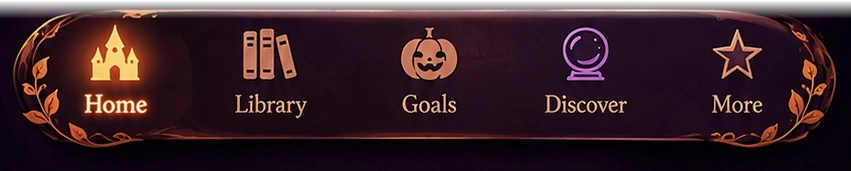
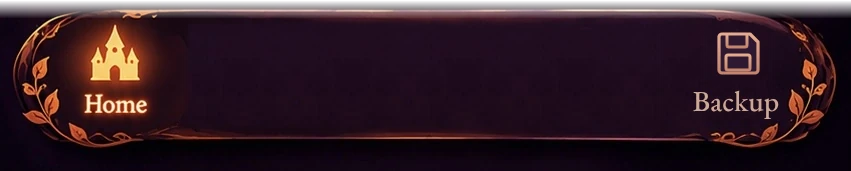
Backup page; bottom bar with only Home + Backup on every page
Claude-Session: https://claude.ai/code/session_01DZ2PcvGyS618JmL5zui3Ep

diff --git a/backup.html b/backup.html
@@ -1,0 +1,89 @@
+<!DOCTYPE html>
+<html lang="en">
+<head>
+<meta charset="utf-8">
+<meta name="app-version" content="backup-1">
+<meta name="viewport" content="width=device-width, initial-scale=1, viewport-fit=cover">
+<meta name="apple-mobile-web-app-capable" content="yes">
+<meta name="apple-mobile-web-app-status-bar-style" content="black-translucent">
+<meta name="theme-color" content="#0e0416">
+<title>Backup</title>
+<link rel="preconnect" href="https://fonts.googleapis.com">
+<link href="https://fonts.googleapis.com/css2?family=EB+Garamond:wght@400;600&display=swap" rel="stylesheet">
+<style>
+@font-face{font-family:"IM Fell English";src:url(fonts/IMFellEnglishItalic.woff2) format("woff2");font-style:italic}
+html,body{margin:0;min-height:100%;background:#0e0416;color:#f1dcc0;font-family:"EB Garamond",Georgia,serif}
+body{min-height:100vh;box-sizing:border-box;background:radial-gradient(ellipse at 50% 0%,#3a1838 0%,#1a0a1e 55%,#0e0416 100%) fixed;
+ padding:calc(env(safe-area-inset-top,0px) + 14px) 22px calc(env(safe-area-inset-bottom,0px) + 140px)}
+.back{color:#e8c890;text-decoration:none;font-size:17px;opacity:.85}
+h1{font:italic 40px/1.1 "IM Fell English",Georgia,serif;color:#f1cf7c;text-shadow:0 0 14px rgba(255,180,80,.3),0 2px 2px #000;margin:22px 0 6px;text-align:center}
+.sub{text-align:center;opacity:.75;font-size:17px;margin:0 0 26px}
+.card{background:linear-gradient(180deg,rgba(90,40,88,.55),rgba(46,18,48,.7));border:1.5px solid rgba(232,190,140,.45);border-radius:18px;padding:18px;margin-bottom:16px;box-shadow:0 6px 16px rgba(0,0,0,.5)}
+.card h2{margin:0 0 4px;font-size:22px;color:#f6dcb4}
+.card p{margin:0 0 14px;font-size:16px;opacity:.8}
+.btn{display:block;width:100%;box-sizing:border-box;text-align:center;padding:13px;border-radius:999px;font:600 18px "EB Garamond",Georgia,serif;cursor:pointer;
+ color:#2a1410;background:linear-gradient(180deg,#f3d29a,#d9a066);border:0;box-shadow:0 3px 8px rgba(0,0,0,.5)}
+.btn:active{filter:brightness(1.1);transform:scale(.98)}
+.status{min-height:24px;text-align:center;font-size:16px;color:#f1cf7c;margin-top:8px}
+.status.err{color:#ff9a8a}
+.hidden{display:none}
+#tabbar{position:fixed;left:0;right:0;bottom:0;z-index:5;padding-bottom:env(safe-area-inset-bottom,0px);
+ background:linear-gradient(transparent,#0d0310 calc(100% - env(safe-area-inset-bottom,0px)))}
+#tabbar .in{position:relative;width:min(100vw,640px);margin:0 auto}
+#tabbar img{display:block;width:100%;height:auto;pointer-events:none}
+#tabbar .tb{position:absolute;top:12%;width:18%;height:76%;border-radius:22px;-webkit-tap-highlight-color:transparent}
+#tabbar .tb:active{background:radial-gradient(closest-side,rgba(255,170,90,.25),transparent)}
+</style>
+</head>
+<body>
+<h1>Backup</h1>
+<p class="sub" id="count">Keep your collection safe</p>
+<div class="card">
+  <h2>Save a backup</h2>
+  <p>Saves all your books to a file you can keep in Files or send to yourself.</p>
+  <button class="btn" id="exportBtn">Save backup</button>
+</div>
+<div class="card">
+  <h2>Restore from a backup</h2>
+  <p>Adds the books from a backup file. Books you already have stay as they are.</p>
+  <label class="btn" for="importFile">Choose backup file</label>
+  <input type="file" id="importFile" accept="application/json,.json" class="hidden">
+</div>
+<div class="status" id="status"></div>
+<nav id="tabbar" aria-label="Sections">
+  <div class="in">
+    <img src="img/tabbar.webp" alt="">
+    <a class="tb" style="left:4%" href="./" aria-label="Home"></a>
+    <a class="tb" style="left:78%" href="backup.html" aria-label="Backup"></a>
+  </div>
+</nav>
+<script src="store.js"></script>
+<script>
+{
+const $ = id => document.getElementById(id);
+const status = (m, err) => { const s = $('status'); s.textContent = m || ''; s.className = 'status' + (err ? ' err' : ''); };
+let books = [];
+const load = () => Store.all().then(a => { books = a; $('count').textContent = a.length ? `${a.length} book${a.length > 1 ? 's' : ''} in your collection` : 'Keep your collection safe'; });
+load(); Store.onChange(load);
+$('exportBtn').onclick = () => {
+  const blob = new Blob([JSON.stringify(books, null, 2)], { type: 'application/json' });
+  const file = new File([blob], `shelf-backup-${new Date().toISOString().slice(0, 10)}.json`, { type: 'application/json' });
+  if (navigator.canShare && navigator.canShare({ files: [file] })) { navigator.share({ files: [file] }).catch(() => {}); return; }
+  const a = document.createElement('a'); a.href = URL.createObjectURL(blob); a.download = file.name; a.click();
+};
+$('importFile').onchange = async e => {
+  const f = e.target.files[0]; e.target.value = ''; if (!f) return;
+  try {
+    const data = JSON.parse(await f.text()); if (!Array.isArray(data)) throw 0;
+    const have = new Set(books.map(b => b.id)); const fresh = data.filter(b => b && b.id && !have.has(b.id));
+    fresh.forEach(b => { if (b.status !== 'wishlist') b.status = 'owned'; if (!GENRES.includes(b.genre)) b.genre = guessGenre(b); });
+    await Store.replaceAll([...fresh, ...books]); await load();
+    status(`Restored ${fresh.length} book${fresh.length === 1 ? '' : 's'}.`);
+    fresh.forEach(b => Store.saveCover(b));
+  } catch (err) { status('That file isn’t a Shelf backup.', true); }
+};
+if ('serviceWorker' in navigator) navigator.serviceWorker.register('./sw.js').catch(() => {});
+}
+</script>
+</body>
+</html>

diff --git a/add.html b/add.html
@@ -3,7 +3,7 @@
 <head>
 <meta charset="utf-8">
 <meta http-equiv="Cache-Control" content="no-cache">
-<meta name="app-version" content="a1">
+<meta name="app-version" content="a2">
 <meta name="viewport" content="width=device-width, initial-scale=1, viewport-fit=cover">
 <title>Add Book</title>
 <meta name="apple-mobile-web-app-capable" content="yes">
@@ -61,14 +61,20 @@ dt{color:var(--mute)}dd{margin:0;overflow-wrap:anywhere}
 .form{display:grid;gap:8px;margin-top:12px}
 .hidden{display:none!important}
 a{color:inherit;text-decoration-color:var(--accent);text-underline-offset:3px}
+#tabbar{position:fixed;left:0;right:0;bottom:0;z-index:5;padding-bottom:env(safe-area-inset-bottom,0px);
+ background:linear-gradient(transparent,#0d0310 calc(100% - env(safe-area-inset-bottom,0px)))}
+#tabbar .in{position:relative;width:min(100vw,640px);margin:0 auto}
+#tabbar img{display:block;width:100%;height:auto;pointer-events:none}
+#tabbar .tb{position:absolute;top:12%;width:18%;height:76%;border-radius:22px;-webkit-tap-highlight-color:transparent}
+#tabbar .tb:active{background:radial-gradient(closest-side,rgba(255,170,90,.25),transparent)}
+main{padding-bottom:140px}
 </style>
 </head>
 <body>
 <header>
-  <a href="./" style="display:inline-block;margin-bottom:6px;color:inherit;opacity:.8;text-decoration:none;font-size:15px">&larr; Home</a>
   <h1>Add Book</h1>
   <p id="count">Your book catalog</p>
-  <p style="font-size:12px;opacity:.5">a1</p>
+  <p style="font-size:12px;opacity:.5">a2</p>
 </header>
 <main>
   <section class="panel">
@@ -94,6 +100,13 @@ a{color:inherit;text-decoration-color:var(--accent);text-underline-offset:3px}
 
 </main>
 
+<nav id="tabbar" aria-label="Sections">
+  <div class="in">
+    <img src="img/tabbar.webp" alt="">
+    <a class="tb" style="left:4%" href="./" aria-label="Home"></a>
+    <a class="tb" style="left:78%" href="backup.html" aria-label="Backup"></a>
+  </div>
+</nav>
 <script src="store.js"></script>
 <script src="https://unpkg.com/@zxing/library@0.21.3/umd/index.min.js"></script>
 <script>
@@ -375,7 +388,7 @@ const loadBooks = () => Store.all().then(a => { books = a.sort((x, y) => (y.adde
 loadBooks(); Store.onChange(loadBooks);
 
 /* ---------- Auto-update ---------- */
-const VERSION = 'a1';
+const VERSION = 'a2';
 if ('serviceWorker' in navigator) navigator.serviceWorker.register('./sw.js').catch(() => {});
 // When the app comes back to the front, check for a newer version and reload into it
 async function checkUpdate() {

diff --git a/book.html b/book.html
@@ -3,7 +3,7 @@
 <head>
 <meta charset="utf-8">
 <meta http-equiv="Cache-Control" content="no-cache">
-<meta name="app-version" content="book-14">
+<meta name="app-version" content="book-16">
 <meta name="viewport" content="width=device-width, initial-scale=1, viewport-fit=cover">
 <meta name="apple-mobile-web-app-capable" content="yes">
 <meta name="apple-mobile-web-app-status-bar-style" content="black-translucent">
@@ -96,10 +96,7 @@ dd input::placeholder{color:rgba(243,227,195,.4);font-style:italic}
   <div class="in">
     <img src="img/tabbar.webp" alt="">
     <a class="tb" style="left:4%" href="./" aria-label="Home"></a>
-    <a class="tb" style="left:22.5%" aria-label="Library"></a>
-    <a class="tb" style="left:41%" aria-label="Goals"></a>
-    <a class="tb" style="left:59.5%" aria-label="Discover"></a>
-    <a class="tb" style="left:78%" aria-label="More"></a>
+    <a class="tb" style="left:78%" href="backup.html" aria-label="Backup"></a>
   </div>
 </nav>
 <script src="store.js"></script>

diff --git a/index.html b/index.html
@@ -3,7 +3,7 @@
 <head>
 <meta charset="utf-8">
 <meta http-equiv="Cache-Control" content="no-cache">
-<meta name="app-version" content="home-54">
+<meta name="app-version" content="home-56">
 <meta name="viewport" content="width=device-width, initial-scale=1, viewport-fit=cover, user-scalable=no">
 <link rel="preload" as="image" href="img/frame.webp" fetchpriority="high">
 <link rel="preload" as="image" href="img/canopy.webp">
@@ -112,10 +112,7 @@
   <div class="in">
     <img src="img/tabbar.webp" alt="">
     <a class="tb" style="left:4%" aria-label="Home" aria-current="page"></a>
-    <a class="tb" style="left:22.5%" aria-label="Library"></a>
-    <a class="tb" style="left:41%" aria-label="Goals"></a>
-    <a class="tb" style="left:59.5%" aria-label="Discover"></a>
-    <a class="tb" style="left:78%" aria-label="More"></a>
+    <a class="tb" style="left:78%" href="backup.html" aria-label="Backup"></a>
   </div>
 </nav>
 <script src="store.js"></script>

diff --git a/home.js b/home.js
@@ -95,7 +95,7 @@ if(document.fonts)document.fonts.ready.then(()=>{const q=document.getElementById
 document.addEventListener('visibilitychange',()=>{if(!document.hidden)showQuote()});
 
 /* ---------- offline + auto-update ---------- */
-const APP_VERSION='home-54';
+const APP_VERSION='home-56';
 // a new version arrived: drop the saved pictures once so new art shows straight away
 try{const v=localStorage.getItem('home.ver');
   if(v!==APP_VERSION){localStorage.setItem('home.ver',APP_VERSION);
